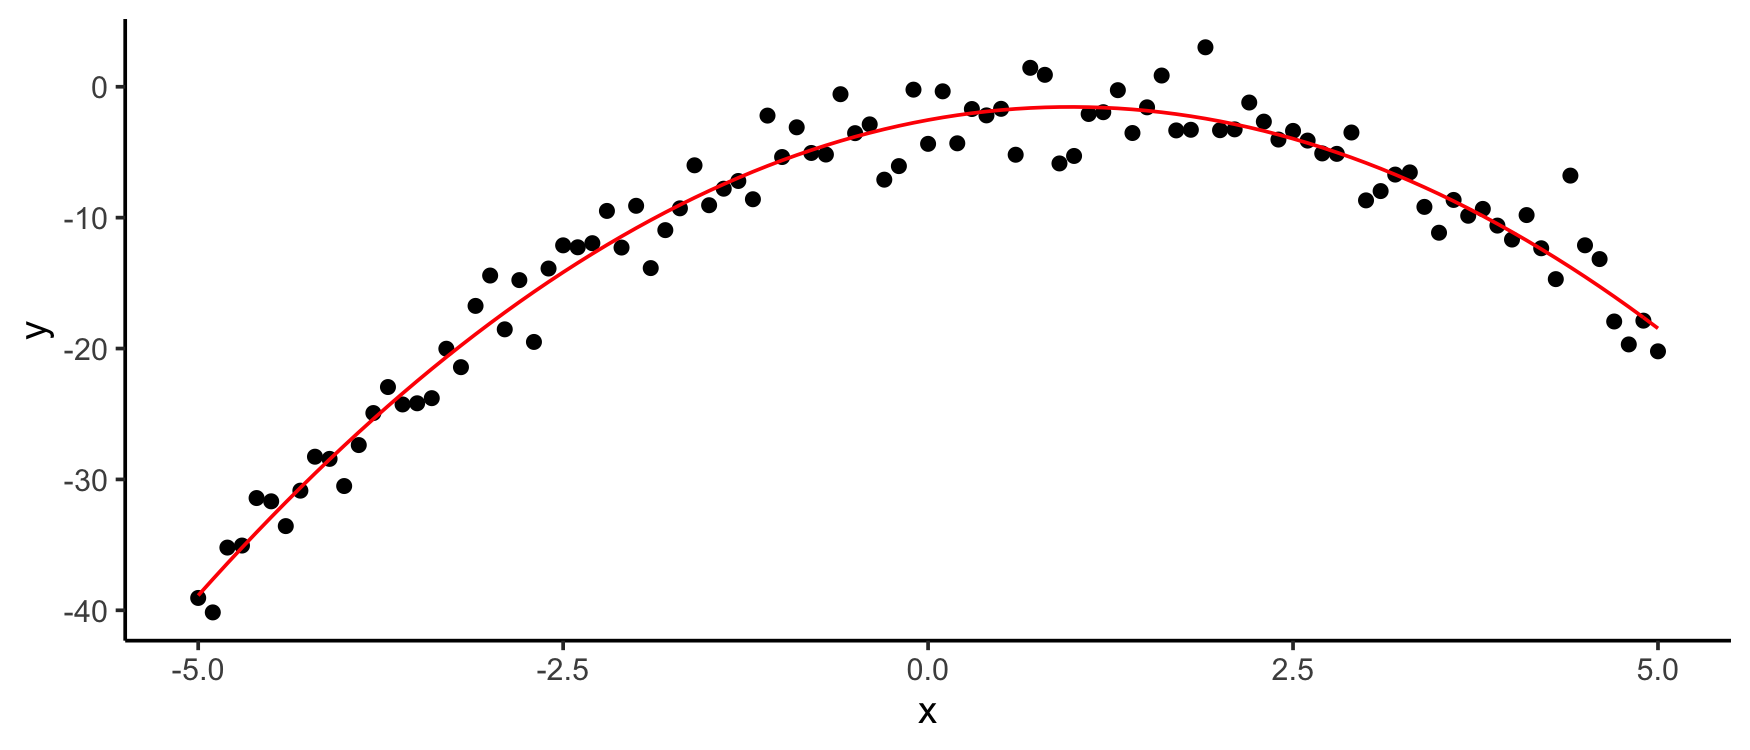
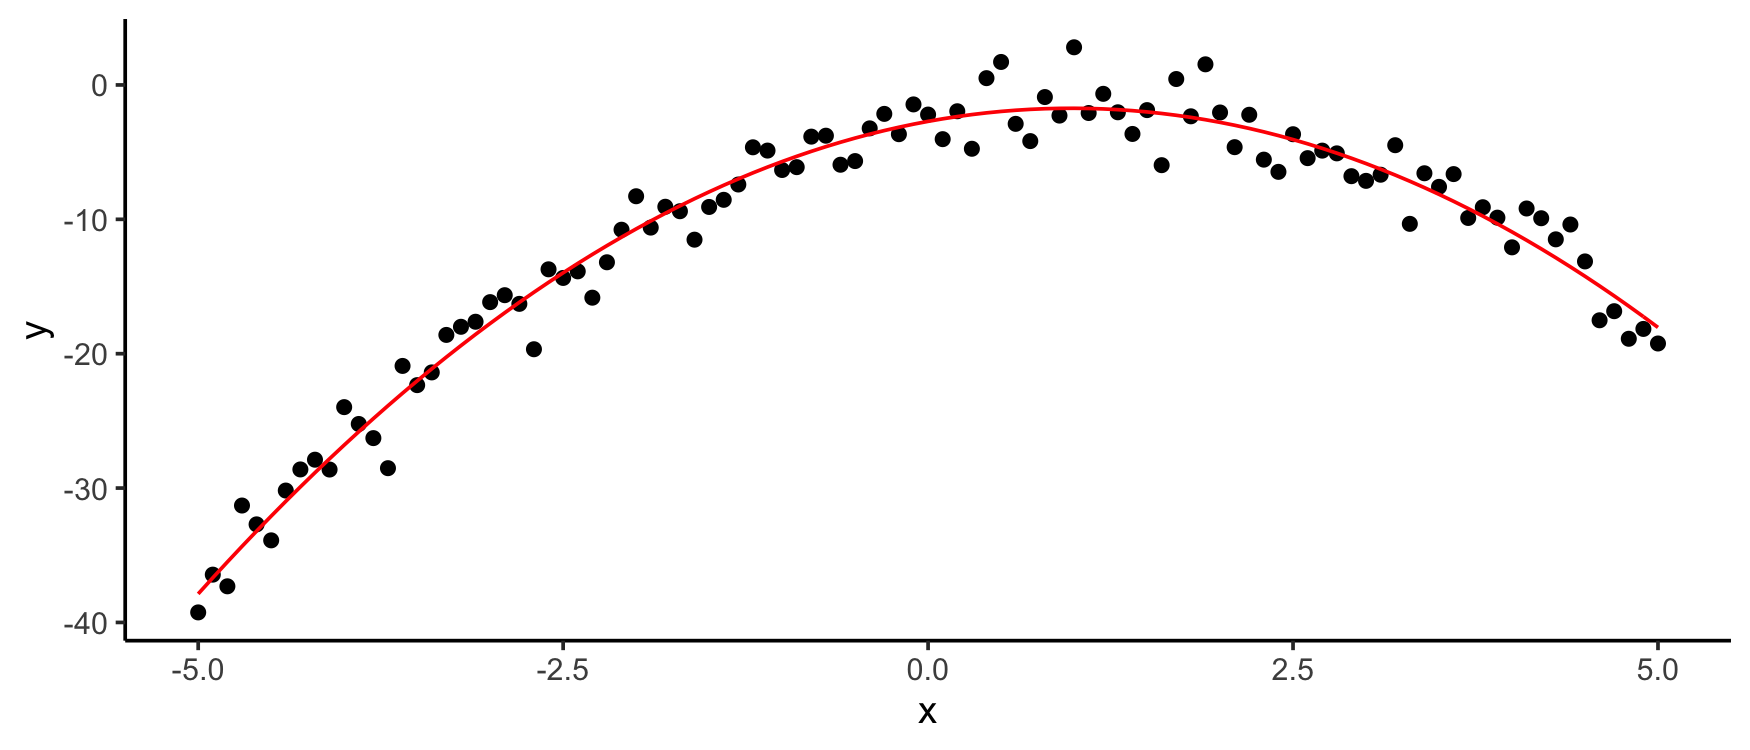
use appveyor

diff --git a/README.md b/README.md
@@ -9,6 +9,8 @@ mpoly
 status](https://www.r-pkg.org/badges/version/mpoly)](https://cran.r-project.org/package=mpoly)
 [![Travis build
 status](https://travis-ci.org/dkahle/mpoly.svg?branch=master)](https://travis-ci.org/dkahle/mpoly)
+[![AppVeyor build
+status](https://ci.appveyor.com/api/projects/status/github/dkahle/mpoly?branch=master&svg=true)](https://ci.appveyor.com/project/dkahle/mpoly)
 <!-- badges: end -->
 
 Specifying polynomials
@@ -241,16 +243,14 @@ f(1:3)
 You can use this to visualize a univariate polynomials like this:
 
 ``` r
+library("tidyverse"); theme_set(theme_classic())
+```
+
+``` r
 f <- as.function(mp("(x-2) x (x+2)"))
 # f(.) with . = x
 x <- seq(-2.5, 2.5, .1)
 
-library(ggplot2); theme_set(theme_classic())
-# 
-# Attaching package: 'ggplot2'
-# The following object is masked from 'package:mpoly':
-# 
-#     vars
 qplot(x, f(x), geom = "line")
 ```
 
@@ -269,11 +269,28 @@ qplot(x, y, data = df, geom = "tile", fill = f)
 
 ![](tools/README-as-funtion-multi-1.png)
 
+Using [tidyversestyle coding](https://www.tidyverse.org) (install
+tidyverse packages with `install.packages("tidyverse")`), this looks a
+bit cleaner:
+
+``` r
+f <- as.function(mp("x^2 - y^2"), vector = FALSE)
+# f(x, y)
+seq(-2.5, 2.5, .1) %>% 
+  list("x" = ., "y" = .) %>% 
+  cross_df() %>% 
+  mutate(f = f(x, y)) %>% 
+  ggplot(aes(x, y, fill = f)) + 
+    geom_raster()
+```
+
+![](tools/README-as-funtion-multi-tidy-1.png)
+
 Algebraic geometry
 ------------------
 
-**Grobner bases are no longer implemented, see
-[m2r](https://github.com/musicman3320/m2r)**
+**Grobner bases are no longer implemented in mpoly; they’re now in
+[m2r](https://github.com/musicman3320/m2r).**
 
 ``` r
 # polys <- mp(c("t^4 - x", "t^3 - y", "t^2 - z"))
@@ -331,10 +348,6 @@ chebyshev(0:5)
 And you can visualize them:
 
 ``` r
-library(tidyr); library(dplyr)
-```
-
-``` r
 s <- seq(-1, 1, length.out = 201); N <- 5
 (chebPolys <- chebyshev(0:N))
 # 1
@@ -344,8 +357,7 @@ s <- seq(-1, 1, length.out = 201); N <- 5
 # 8 x^4  -  8 x^2  +  1
 # 16 x^5  -  20 x^3  +  5 x
 
-
-df <- as.function(chebPolys)(s) %>% cbind(s, .) %>% as.data.frame
+df <- as.function(chebPolys)(s) %>% cbind(s, .) %>% as.data.frame()
 names(df) <- c("x", paste0("T_", 0:N))
 mdf <- df %>% gather(degree, value, -x)
 qplot(x, value, data = mdf, geom = "path", color = degree)
@@ -554,13 +566,14 @@ Other stuff
 I’m starting to put in methods for some other R functions:
 
 ``` r
+set.seed(1)
 n <- 101
 df <- data.frame(x = seq(-5, 5, length.out = n))
 df$y <- with(df, -x^2 + 2*x - 3 + rnorm(n, 0, 2))
 
 mod <- lm(y ~ x + I(x^2), data = df)
 (p <- mod %>% as.mpoly %>% round)
-# 2.041 x  -  1.045 x^2  -  2.538
+# 1.983 x  -  1.01 x^2  -  2.709
 qplot(x, y, data = df) +
   stat_function(fun = as.function(p), colour = 'red')
 # f(.) with . = x
@@ -580,19 +593,19 @@ df <- expand.grid(x = s, y = s) %>%
 # 
 # Coefficients:
 #                           (Intercept)  
-#                              0.008102  
+#                             -0.070512  
 # poly(x, y, degree = 2, raw = TRUE)1.0  
-#                              0.010227  
+#                             -0.004841  
 # poly(x, y, degree = 2, raw = TRUE)2.0  
-#                              1.003252  
+#                              1.005307  
 # poly(x, y, degree = 2, raw = TRUE)0.1  
-#                              0.004330  
+#                              0.001334  
 # poly(x, y, degree = 2, raw = TRUE)1.1  
-#                              3.005018  
+#                              3.003755  
 # poly(x, y, degree = 2, raw = TRUE)0.2  
-#                             -1.006317
+#                             -0.999536
 as.mpoly(mod)
-# 0.01022673 x  +  1.003252 x^2  +  0.004329615 y  +  3.005018 x y  -  1.006317 y^2  +  0.008102464
+# -0.004840798 x  +  1.005307 x^2  +  0.001334122 y  +  3.003755 x y  -  0.9995356 y^2  -  0.07051218
 ```
 
 Installation
